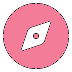
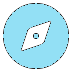
chore: switch app colors to React colors

diff --git a/src/utils/theme/colors/palette.ts b/src/utils/theme/colors/palette.ts
@@ -1,5 +1,5 @@
 export const PALETTE = Object.freeze({
-  primaryHighlight: '#f37c98',
+  primaryHighlight: '#93e0f5',
 
   white: '#fff',
   black: '#000',
@@ -15,7 +15,6 @@ export const PALETTE = Object.freeze({
   gray5: '#262626',
   gray6: '#1a1a1a',
   gray7: '#121212',
-
 
   colorHintedGrey1: '0e0e10',
   colorHintedGrey2: '18181b',
@@ -33,9 +32,9 @@ export const PALETTE = Object.freeze({
   colorHintedGrey14: 'efeff1',
   colorHintedGrey15: 'f7f7f8',
 
-  highlightedText: '#f37c98',
+  highlightedText: '#93e0f5',
 
-  defaultButton: '#d71442',
+  defaultButton: '#61DAFB',
 
   disabledButtonBackground: '#0095F650',
   disabledButtonText: '#BCC0C480',
@@ -47,7 +46,7 @@ export const PALETTE = Object.freeze({
   errorOrDestructive: '#ed4956',
   link: '#e0f1ff',
 
-  twitchPurple: '#d71442',
+  twitchPurple: '#61DAFB',
   twitchPurple1: '#040109',
   twitchPurple2: '#0d031c',
   twitchPurple3: '#15052e',
@@ -278,5 +277,5 @@ export const PALETTE = Object.freeze({
   colorPaypalYellow: '#fcc439',
   colorVenmo: '#008cff',
   colorVk: '#45668e',
-  colorAmazon: '#fad677'
-})
+  colorAmazon: '#fad677',
+});

diff --git a/src/components/commons/Application/Application.tsx b/src/components/commons/Application/Application.tsx
@@ -8,6 +8,7 @@ import { GestureHandlerRootView } from 'react-native-gesture-handler';
 import { connectToDevTools } from 'react-devtools-core';
 
 import '../../../utils/i18n/i18n';
+import { LogBox } from 'react-native';
 
 const Application = () => {
   const { store, persistor } = configureStore();
@@ -18,6 +19,8 @@ const Application = () => {
       host: 'localhost',
       port: 8097,
     });
+
+    LogBox.ignoreAllLogs();
   }
 
   return (
